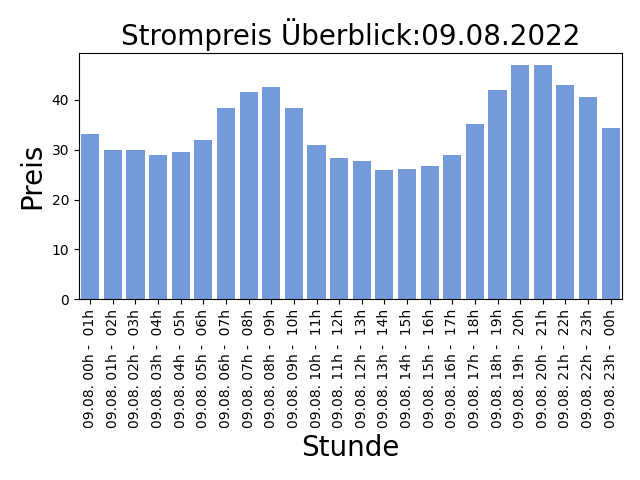
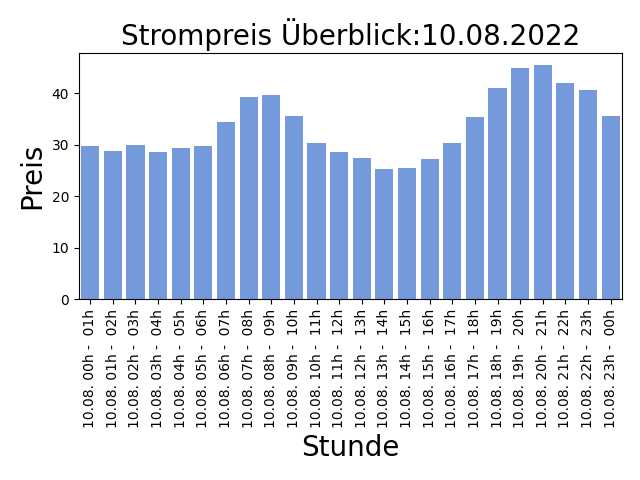
AUTOMATIC UPDATE PRICE LIST: 2022-08-09-14:30:05

diff --git a/README.md b/README.md
@@ -1,5 +1,5 @@
 
-## Strompreise für den 09.08.2022
+## Strompreise für den 10.08.2022
 
 Niedrige Preise deuten auf viel Sonnen und Windenergieerzeugung hin, ein hoher Anteil an erneuerbaren Energien bedeuted weniger CO2 Verbrauch!
 
@@ -7,31 +7,31 @@ Niedrige Preise deuten auf viel Sonnen und Windenergieerzeugung hin, ein hoher A
 
 | Stunde | Preis in Cent/kWh |
 |---|---|
-| 09.08. 00h -  01h | 33.076 | 
-| 09.08. 01h -  02h | 29.892000000000003 | 
-| 09.08. 02h -  03h | 29.895 | 
-| 09.08. 03h -  04h | 28.919999999999998 | 
-| 09.08. 04h -  05h | 29.575 | 
-| 09.08. 05h -  06h | 32.001 | 
-| 09.08. 06h -  07h | 38.292 | 
-| 09.08. 07h -  08h | 41.498000000000005 | 
-| 09.08. 08h -  09h | 42.622 | 
-| 09.08. 09h -  10h | 38.399 | 
-| 09.08. 10h -  11h | 31.008999999999997 | 
-| 09.08. 11h -  12h | 28.244 | 
-| 09.08. 12h -  13h | 27.756999999999998 | 
-| **09.08. 13h -  14h** | **25.894** | 
-| 09.08. 14h -  15h | 26.064 | 
-| 09.08. 15h -  16h | 26.689 | 
-| 09.08. 16h -  17h | 28.937 | 
-| 09.08. 17h -  18h | 35.134 | 
-| 09.08. 18h -  19h | 42.0 | 
-| 09.08. 19h -  20h | 46.980000000000004 | 
-| 09.08. 20h -  21h | 46.972 | 
-| 09.08. 21h -  22h | 42.867000000000004 | 
-| 09.08. 22h -  23h | 40.644999999999996 | 
-| 09.08. 23h -  00h | 34.331 | 
+| 10.08. 00h -  01h | 29.701 | 
+| 10.08. 01h -  02h | 28.698 | 
+| 10.08. 02h -  03h | 29.871 | 
+| 10.08. 03h -  04h | 28.560000000000002 | 
+| 10.08. 04h -  05h | 29.399 | 
+| 10.08. 05h -  06h | 29.774 | 
+| 10.08. 06h -  07h | 34.367000000000004 | 
+| 10.08. 07h -  08h | 39.298 | 
+| 10.08. 08h -  09h | 39.551 | 
+| 10.08. 09h -  10h | 35.626 | 
+| 10.08. 10h -  11h | 30.29 | 
+| 10.08. 11h -  12h | 28.49 | 
+| 10.08. 12h -  13h | 27.476 | 
+| **10.08. 13h -  14h** | **25.3** | 
+| 10.08. 14h -  15h | 25.396 | 
+| 10.08. 15h -  16h | 27.233999999999998 | 
+| 10.08. 16h -  17h | 30.310000000000002 | 
+| 10.08. 17h -  18h | 35.3 | 
+| 10.08. 18h -  19h | 40.993 | 
+| 10.08. 19h -  20h | 44.9 | 
+| 10.08. 20h -  21h | 45.473 | 
+| 10.08. 21h -  22h | 42.0 | 
+| 10.08. 22h -  23h | 40.684 | 
+| 10.08. 23h -  00h | 35.501 | 
 
 Preise der EPEX Spot ® Strombörse (neue Preise werden täglich um 14:00 veröffentlicht für den kompletten nächsten Tag).
 
-letzte Aktualisierung:08.08.2022 14:30
+letzte Aktualisierung:09.08.2022 14:30
